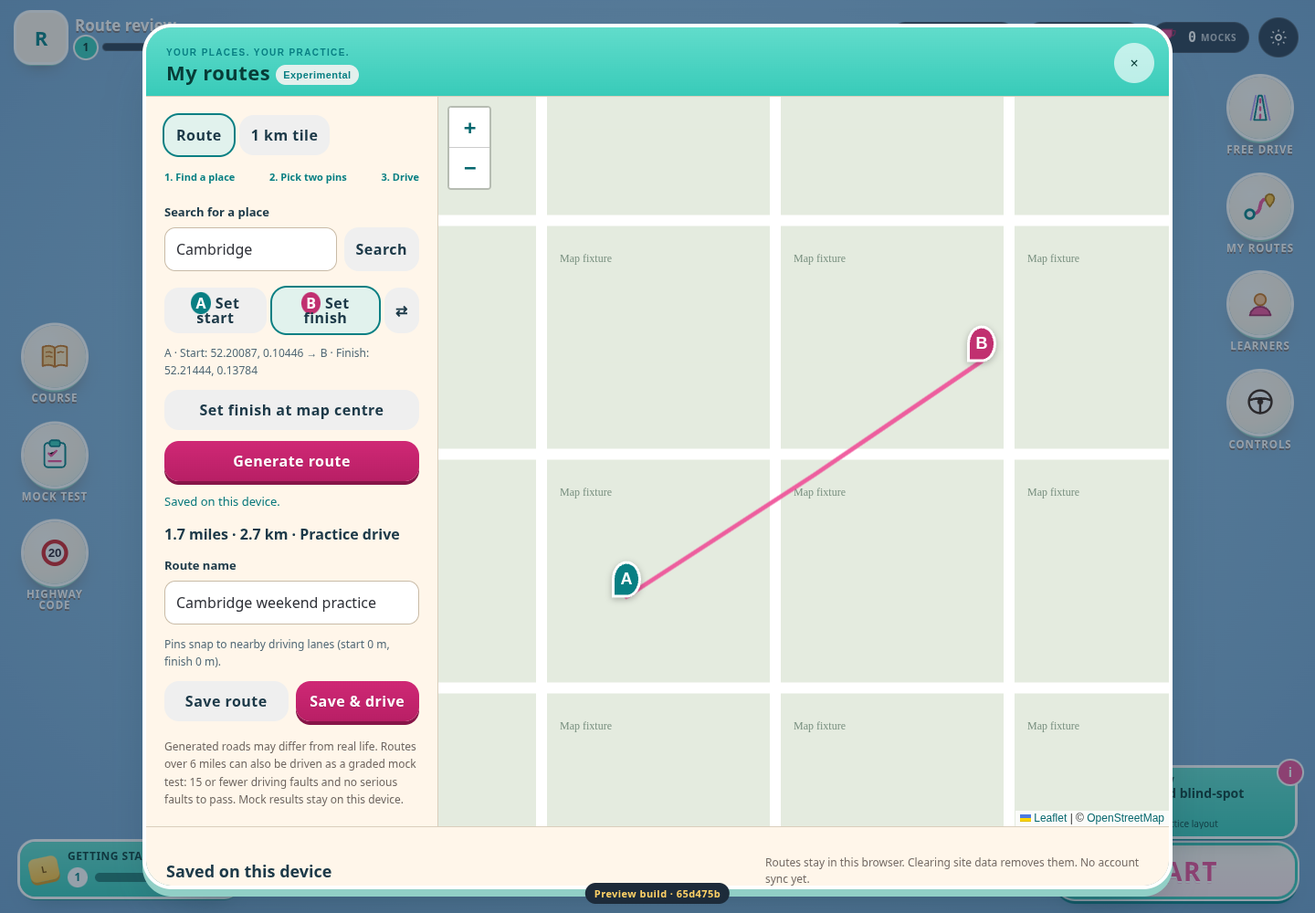
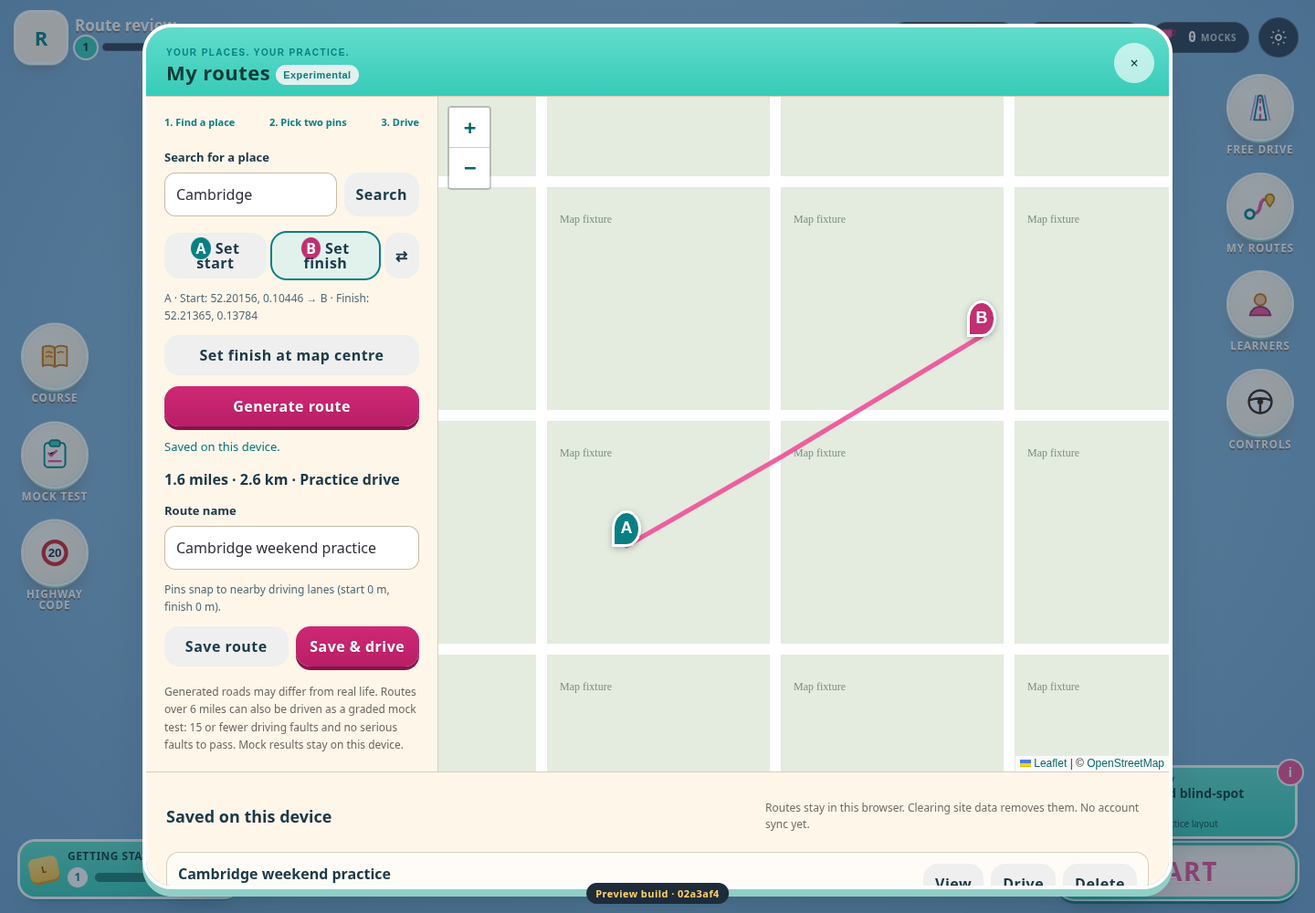
Keep refined rendering in My routes and remove standalone tile tool

diff --git a/js/personal/ui.js b/js/personal/ui.js
@@ -1,4 +1,3 @@
-import {createTileControls} from '../tile-builder/controls.js';
 import * as L from '../vendor/leaflet.js';
 import {request,findRoute,createJourney} from './client.js';
 import {decode,metres,eligibleForMock} from './geometry.js';
@@ -9,7 +8,6 @@ export function createRoutesUI({onDrive,onClose,canDrive,requestLogin}) {
   sheet.innerHTML=`<div class="card" role="dialog" aria-modal="true" aria-labelledby="personalRoutesHeading">
     <header><div><span class="route-eyebrow">YOUR PLACES. YOUR PRACTICE.</span><h2 id="personalRoutesHeading">My routes <small>Experimental</small></h2></div><button class="x" type="button" aria-label="Close my routes">×</button></header>
     <div class="personal-layout"><div class="personal-tools">
-      <div class="route-pin-controls route-mode"><button class="cbtn" id="routeMode" aria-pressed="true">Route</button><button class="cbtn" id="tileMode" aria-pressed="false">1 km tile</button></div>
       <ol class="route-steps"><li>Find a place</li><li>Pick two pins</li><li>Drive</li></ol>
       <form id="placeSearch"><label for="routePlace">Search for a place</label><div class="route-search"><input id="routePlace" type="search" placeholder="Cambridge, UK" maxlength="200" autocomplete="off" required><button class="cbtn" type="submit">Search</button></div></form>
       <div id="placeResults" aria-label="Place search results"></div>
@@ -40,13 +38,7 @@ export function createRoutesUI({onDrive,onClose,canDrive,requestLogin}) {
     $('pinSummary').textContent=pins.map((p,i)=>(i?'B · Finish: ':'A · Start: ')+(p?`${p[1].toFixed(5)}, ${p[0].toFixed(5)}`:'click the map')).join(' → ');
   }
   function setPin(i,p){invalidate();pins[i]=p;refreshPins();if(i===0&&!pins[1])select(1);}
-  map.on('click',e=>{if(!tileControls.active)setPin(choice,[e.latlng.lng,e.latlng.lat]);});
-  const tileControls=createTileControls({sheet,map,L,say,onMode:enabled=>{
-    invalidate();pins=[null,null];refreshPins();
-    for(const el of [sheet.querySelector('.route-steps'),sheet.querySelector('.route-pin-controls:not(.route-mode)'),$('pinSummary'),$('pinAtCentre'),$('generatePersonalRoute'),sheet.querySelector('.personal-tools>.route-note'),sheet.querySelector('.personal-library')])el.hidden=enabled;
-    $('routeMode').setAttribute('aria-pressed',String(!enabled));$('tileMode').setAttribute('aria-pressed',String(enabled));
-  }});
-  $('routeMode').onclick=()=>tileControls.enable(false);$('tileMode').onclick=()=>tileControls.enable(true);
+  map.on('click',e=>setPin(choice,[e.latlng.lng,e.latlng.lat]));
   $('chooseStart').onclick=()=>select(0);$('chooseEnd').onclick=()=>select(1);
   $('pinAtCentre').onclick=()=>{const p=map.getCenter();setPin(choice,[p.lng,p.lat]);};
   $('swapPins').onclick=()=>{invalidate();pins.reverse();refreshPins();};
@@ -56,16 +48,16 @@ export function createRoutesUI({onDrive,onClose,canDrive,requestLogin}) {
     const snaps=[recipe.snappedStart,recipe.snappedEnd];$('routeSnap').textContent=snaps.every(Boolean)?`Pins snap to nearby driving lanes (start ${Math.round(metres(recipe.start,snaps[0]))} m, finish ${Math.round(metres(recipe.end,snaps[1]))} m).`:'Pins follow nearby driving lanes.';
   }
   $('placeSearch').onsubmit=async e=>{
-    e.preventDefault();const q=$('routePlace').value.trim();if(!q)return;cancel();tileControls.cancel();const token=sequence;controller=new AbortController();setBusy(true);say('Searching places…');$('placeResults').replaceChildren();
+    e.preventDefault();const q=$('routePlace').value.trim();if(!q)return;cancel();const token=sequence;controller=new AbortController();setBusy(true);say('Searching places…');$('placeResults').replaceChildren();
     try{const results=await request('search?q='+encodeURIComponent(q),{signal:controller.signal,onStatus:say});if(token!==sequence)return;
       if(!Array.isArray(results))throw Error('Place search returned an invalid response.');
-      for(const result of results.slice(0,8)){const lat=Number(result.lat),lon=Number(result.lon);if(!Number.isFinite(lat)||!Number.isFinite(lon))continue;const button=document.createElement('button');button.className='place-result';button.type='button';button.textContent=result.display_name;button.onclick=()=>{invalidate();pins=[null,null];refreshPins();place=String(result.name||result.display_name||q).split(',')[0];const b=result.boundingbox?.map(Number);if(b?.length===4&&b.every(Number.isFinite))map.fitBounds([[b[0],b[2]],[b[1],b[3]]],{maxZoom:15});else map.setView([lat,lon],14);$('placeResults').replaceChildren();if(tileControls.active){tileControls.select([lon,lat]);tileControls.fit();}else{say('Place start A, then finish B on the map.');select(0);}};$('placeResults').append(button);}
+      for(const result of results.slice(0,8)){const lat=Number(result.lat),lon=Number(result.lon);if(!Number.isFinite(lat)||!Number.isFinite(lon))continue;const button=document.createElement('button');button.className='place-result';button.type='button';button.textContent=result.display_name;button.onclick=()=>{invalidate();pins=[null,null];refreshPins();place=String(result.name||result.display_name||q).split(',')[0];const b=result.boundingbox?.map(Number);if(b?.length===4&&b.every(Number.isFinite))map.fitBounds([[b[0],b[2]],[b[1],b[3]]],{maxZoom:15});else map.setView([lat,lon],14);$('placeResults').replaceChildren();say('Place start A, then finish B on the map.');select(0);};$('placeResults').append(button);}
       say($('placeResults').children.length?'Choose a place below.':'No matching places. Try a town, road or postcode.');
     }catch(e){if(e.name!=='AbortError'&&token===sequence)say(e.message);}finally{if(token===sequence)setBusy(false);}
   };
   $('generatePersonalRoute').onclick=async()=>{
     invalidate();const token=sequence;controller=new AbortController();setBusy(true);say('Finding a driving route…');
-    try{const recipe=await findRoute(...pins,{signal:controller.signal,onStatus:say});if(token!==sequence)return;recipe.title=(place+' · A to B').slice(0,120);drawRecipe(recipe);say('Route ready. Save & drive builds it with the refined map generator.');}
+    try{const recipe=await findRoute(...pins,{signal:controller.signal,onStatus:say});if(token!==sequence)return;recipe.title=(place+' · A to B').slice(0,120);drawRecipe(recipe);say('Route ready. Save it here or drive it now.');}
     catch(e){if(e.name!=='AbortError'&&token===sequence)say(e.message);}finally{if(token===sequence)setBusy(false);}
   };
   function save(){if(!draft)throw Error('Generate a route first.');const title=$('personalRouteName').value.trim();if(!title)throw Error('Give your route a name.');draft={...draft,title};store.save(draft);renderSaved();return draft;}
@@ -89,12 +81,12 @@ export function createRoutesUI({onDrive,onClose,canDrive,requestLogin}) {
       const del=button('Delete',()=>{if(!confirm(`Delete “${recipe.title}” from this browser?`))return;try{cancel();store.remove(recipe.id);if(draft?.id===recipe.id)invalidate();renderSaved();say('Route deleted from this device.');}catch(e){say(e.message);}});del.setAttribute('aria-label','Delete '+recipe.title);list.append(card);
     }
   }
-  function close(){cancel();tileControls.cancel();sheet.hidden=true;onClose?.();}
+  function close(){cancel();sheet.hidden=true;onClose?.();}
   sheet.querySelector('.x').onclick=close;sheet.addEventListener('click',e=>{if(e.target===sheet)close();});
   sheet.addEventListener('keydown',e=>{if(e.key==='Escape'){e.stopPropagation();close();}if(e.key==='Tab'){const items=[...sheet.querySelectorAll('button,input,a[href],[tabindex="0"]')].filter(e=>!e.disabled&&e.getClientRects().length),first=items[0],last=items.at(-1);if(e.shiftKey&&document.activeElement===first){e.preventDefault();last.focus();}else if(!e.shiftKey&&document.activeElement===last){e.preventDefault();first.focus();}}});
   window.addEventListener('storage',e=>{if(e.key?.startsWith('slaydrive.personal-routes'))renderSaved();});
   window.addEventListener('learner-access-change',()=>{if(!canDrive()&&busy){cancel();say('Sign in again to drive your saved route.');}});
-  const fit=()=>{map.invalidateSize({pan:false});if(tileControls.active){tileControls.fit();return;}if(line)map.fitBounds(line.getBounds(),{padding:[32,32],maxZoom:16});};
+  const fit=()=>{map.invalidateSize({pan:false});if(line)map.fitBounds(line.getBounds(),{padding:[32,32],maxZoom:16});};
   new ResizeObserver(()=>{if(!sheet.hidden)fit();}).observe($('personalRouteMap'));
-  return {open({tile=false}={}){sheet.hidden=false;renderSaved();tileControls.enable(tile);say(draft?'Saved route ready.':'Search for a place, then choose start and finish.');if(tile)say('Cambridge is selected. Search above or move the 1 km square, then generate it.');setTimeout(()=>{fit();$('routePlace').focus();},0);},close,map};
+  return {open(){sheet.hidden=false;renderSaved();say(draft?'Saved route ready.':'Search for a place, then choose start and finish.');setTimeout(()=>{fit();$('routePlace').focus();},0);},close,map};
 }

diff --git a/server/map/handler.js b/server/map/handler.js
@@ -1,14 +1,12 @@
-import {tileDetailQuery} from './tile-details.js';
 import {coordinate,boundsCheck} from '../../js/personal/geometry.js';
 const SOURCE='https://slaydrive-world-sources.manchala0024.workers.dev';
 const DEMO='https://routing.openstreetmap.de/routed-car/route/v1/driving';
 const json=(data,status=200,headers={})=>Response.json(data,{status,headers:{'X-Content-Type-Options':'nosniff','Cache-Control':'no-store',...headers}});
 // Public geographic data only. No tracks, accounts, payment or admin writes.
-// Search/base OSM use the existing globally throttled and cached SourceBroker.
-// Supplementary tile markings use a fixed, bounded query with local cache/rate limits.
+// Search/Overpass use the existing globally throttled and cached SourceBroker.
 export async function handleMapRequest(request,env={},deps={}) {
   const url=new URL(request.url),path=url.pathname.replace(/^.*\/map-api\//,''),fetcher=deps.fetch||fetch,cache=deps.cache||globalThis.caches?.default;
-  if(!['search','route','osm','tile-details'].includes(path))return json({message:'Unknown map request.'},404);
+  if(!['search','route','osm'].includes(path))return json({message:'Unknown map request.'},404);
   if(request.method!==(path==='search'?'GET':'POST'))return json({message:'Method not allowed.'},405);
   if(request.headers.get('Origin')&&request.headers.get('Origin')!==url.origin)return json({message:'Open route creation in the simulator.'},403);
   let upstream,options={headers:{'User-Agent':'SlayDrivePersonalRoutes/1.0 (https://github.com/ravitejamanchala/cambridge-learner-driv)','Accept':'application/json'},signal:AbortSignal.timeout(35000)},body;
@@ -17,8 +15,6 @@ export async function handleMapRequest(request,env={},deps={}) {
     if(path==='search'){
       const q=url.searchParams.get('q')?.trim();if(!q||q.length>200)throw Error('Enter a place name (up to 200 characters).');
       upstream=SOURCE+'/sources/search?q='+encodeURIComponent(q);
-    }else if(path==='tile-details'){
-      const query=tileDetailQuery(body?.bounds);upstream='https://overpass-api.de/api/interpreter?data='+encodeURIComponent(query);
     }else if(path==='osm'){
       boundsCheck(body?.bounds);upstream=SOURCE+'/sources/osm';options={...options,method:'POST',headers:{...options.headers,'Content-Type':'application/json'},body:JSON.stringify({bounds:body.bounds})};
     }else{
@@ -31,29 +27,21 @@ export async function handleMapRequest(request,env={},deps={}) {
       upstream=router.replace(/\/$/,'')+'/'+[body.start,body.end].map(p=>p.join(',')).join(';')+'?overview=full&geometries=geojson&steps=false&alternatives=false';
     }
   }catch(e){return json({message:e.message||'Invalid map request.'},400);}
-  // Cache routing and supplementary detail results; the broker owns base OSM caching.
-  const key=['route','tile-details'].includes(path)?new Request(upstream):null;
+  // Cache routing results; the existing source broker owns search/OSM caching.
+  const key=path==='route'?new Request(upstream):null;
   if(key){const hit=await cache?.match(key);if(hit)return hit;
     const client=request.headers.get('CF-Connecting-IP');
-    if(client&&cache){const rateKey=new Request(url.origin+'/map-api/rate/'+path+'/'+encodeURIComponent(client)),recent=await cache.match(rateKey);if(recent)return json({message:'Please wait a moment before generating another route.'},429,{'Retry-After':'5'});await cache.put(rateKey,new Response('1',{headers:{'Cache-Control':'max-age=5'}}));}
+    if(client&&cache){const rateKey=new Request(url.origin+'/map-api/rate/'+encodeURIComponent(client)),recent=await cache.match(rateKey);if(recent)return json({message:'Please wait a moment before generating another route.'},429,{'Retry-After':'5'});await cache.put(rateKey,new Response('1',{headers:{'Cache-Control':'max-age=5'}}));}
   }
   try{
-    let target=upstream;
-    if(path==='tile-details'){const provider=new URL(upstream),query=provider.searchParams.get('data');provider.search='';target=provider.href;options={...options,method:'POST',headers:{...options.headers,'Content-Type':'application/x-www-form-urlencoded'},body:new URLSearchParams({data:query}).toString()};}
-    let response;
-    if(path==='tile-details'){
-      // Independent public mirror for outages only. A rate limit or other 4xx
-      // response is returned to the caller, never evaded by switching servers.
-      const providers=[target,'https://overpass.private.coffee/api/interpreter'];
-      for(let i=0;i<providers.length;i++){try{response=await fetcher(providers[i],{...options,signal:AbortSignal.timeout(15000)});if(response.status<500||i===providers.length-1)break;await response.body?.cancel();}catch(e){if(i===providers.length-1)throw e;}}
-    }else response=await fetcher(target,options);
-    if(!response.ok)return json({providerStatus:response.status,message:response.status===429?'The map provider is busy. Please wait and retry.':response.status===400&&path==='route'?'The routing provider cannot connect these pins. Choose points on connected public roads.':'The map provider is unavailable. Please retry shortly.'},response.status===429?429:502,{'Retry-After':response.headers.get('Retry-After')||'6'});
+    const response=await fetcher(upstream,options);
+    if(!response.ok)return json({message:response.status===429?'The map provider is busy. Please wait and retry.':response.status===400&&path==='route'?'The routing provider cannot connect these pins. Choose points on connected public roads.':'The map provider is unavailable. Please retry shortly.'},response.status===429?429:502,{'Retry-After':response.headers.get('Retry-After')||'6'});
     // Bound response size without buffering an unbounded provider response.
     const reader=response.body.getReader(),chunks=[];let size=0;
     try{while(true){const {done,value}=await reader.read();if(done)break;size+=value.length;if(size>12*1024*1024){await reader.cancel();return json({message:'The map provider response was too large. Try a less detailed route or retry later.'},422);}chunks.push(value);}}finally{reader.releaseLock();}
     const data=JSON.parse(await new Blob(chunks).text());
     if(path==='route'&&(data.code!=='Ok'||!data.routes?.length))return json({message:'No driving route connects those pins. Try nearby public roads.'},422);
-    if(['osm','tile-details'].includes(path)&&(!Array.isArray(data.elements)||data.remark))return json({message:'The map provider returned an incomplete area. Retry this section.'},502);
-    const out=json(data,200,key?{'Cache-Control':'public, max-age=3600'}:{});if(key)await cache?.put(key,out.clone());return out;
+    if(path==='osm'&&(!Array.isArray(data.elements)||data.remark))return json({message:'The map provider returned an incomplete area. Retry this section.'},502);
+    const out=json(data,200,path==='route'?{'Cache-Control':'public, max-age=3600'}:{});if(key)await cache?.put(key,out.clone());return out;
   }catch{return json({message:'The map service did not respond in time. Please retry.'},502);}
 }

diff --git a/js/main.js b/js/main.js
@@ -275,9 +275,9 @@ async function boot() {
   mountLocalLibrary({selectedRoute:()=>hub.plan().kind==='mock'?hub.plan().key.slice(6):null,onSelect:(id)=>{const pl=hub.select('mock',id);hub.render();return pickPlan(pl,false);}});
   let personalUI=null,personal=null;
   function stopPersonal(){personal?.journey.cancel();personal=null;for(const key of localTracks.keys())if(key.startsWith('personal:'))localTracks.delete(key);index.areas=index.areas.filter(a=>!a.id.startsWith('personal:')); $('personalJourneyProgress').hidden=true;document.body.classList.remove('personal-drive');}
-  async function openPersonal(tile=false){
+  async function openPersonal(){
     hub.closeSheets();
-    try{if(!personalUI){const {createRoutesUI}=await import('./personal/ui.js');personalUI=createRoutesUI({onDrive:startPersonal,canDrive:graded=>canAccessPlan({kind:'personal',graded}),requestLogin:()=>{personalUI.close();hub.requestAccess();},onClose:()=>$('myRoutesBtn').focus()});}personalUI.open({tile:tile===true});}
+    try{if(!personalUI){const {createRoutesUI}=await import('./personal/ui.js');personalUI=createRoutesUI({onDrive:startPersonal,canDrive:graded=>canAccessPlan({kind:'personal',graded}),requestLogin:()=>{personalUI.close();hub.requestAccess();},onClose:()=>$('myRoutesBtn').focus()});}personalUI.open();}
     catch(e){$('personalOpenStatus').textContent='Route creator could not load. Check your connection and retry.';}
   }
   $('myRoutesBtn').onclick=openPersonal;
@@ -865,7 +865,6 @@ async function boot() {
   });
   await areaChain; await new Promise(r => setTimeout(r, 0));
   $('loadOv').hidden = true;
-  if(new URLSearchParams(location.search).has('tile'))await openPersonal(true);
 }
 
 boot().catch(err => { console.error(err); setLoad(err.message || 'Something went wrong while loading.'); const b = $('loadErr'); if (b) b.hidden = false; });

diff --git a/js/personal/routes.css b/js/personal/routes.css
@@ -17,5 +17,4 @@
 .personal-routes .card{display:block}.personal-routes .route-note{margin-bottom:0}.personal-routes .personal-library{position:relative}
 .personal-drive #pauseSheet .detail>h3,.personal-drive #flist{display:none}.personal-drive #resultSheet .score{display:none}
 #personalOpenStatus:empty{display:none}
-/* Geometry preview uses the existing My routes layout, fonts and buttons. */
-#tileViewport{position:absolute;inset:0;background:var(--cream)}#tileViewport canvas{display:block;width:100%;height:100%}#tileControls [aria-pressed=true]{outline:2px solid #087f83;background:#e1f2ed}#tileControls .route-actions{flex-wrap:wrap}.personal-routes [hidden]{display:none!important}.route-mode{margin:0 0 16px}
+.personal-routes [hidden]{display:none!important}

diff --git a/docs/one-km-tile.md b/docs/one-km-tile.md
@@ -1,17 +1,29 @@
-# One kilometre tile prototype
+# Refined map renderer
 
-This is a fresh branch from `main` (`e444919`), not a continuation of the deleted world-inspector branch. Open **`/?tile`** on its PR preview, or **My routes → 1 km tile**. This uses the existing simulator panel, fonts, colours, search and map; there is no restyled page.
+The separate 1 km tile tool has been removed. Its geometry and markings now power the existing **My routes** flow; there is no second editor, mode selector or tile-preview shortcut.
 
-1. Search for a town, street or postcode and select a result. Cambridge is selected initially.
-2. The pink square shows exactly **1,000 × 1,000 metres in the simulator's local projection**. Click the street map or drag its centre pin to reposition it.
-3. Choose **Generate 3D tile**. The app downloads a bounded 1,200 × 1,200 metre area, processes it in a worker and displays only the central 1 km tile.
-4. Drag to orbit, right-drag to pan, scroll/pinch to zoom. **Reset view** frames the whole tile. Return to **Map** to choose another area.
+1. Open **My routes** and search for a place.
+2. Place start A and finish B, then choose **Generate route**.
+3. Choose **Save & drive**, or use **Drive** on an existing saved route.
 
-The prototype shows joined roads, flat pavements, mapped water/green spaces and simple extruded building footprints. Mapped trees, fences, walls, hedges, gates, bollards, lamps, benches, bins, post boxes, cycle parking and bus-stop assets reuse the simulator’s procedural geometry. A separate names/direction guide can be switched off. It uses the existing simulator OSM converter and coordinate conventions. The tile renderer now buffers whole road polylines into continuous rounded outlines, unions them with fitted junction corners, and subtracts the carriageway from pavement and walking/cycling surfaces. This avoids folded ribbon triangles and rectangular pavement pieces in the road. This change is confined to the tile renderer. The preview retains source building geometry rather than applying driving-clearance edits. Existing simulator import behavior is unchanged.
+The simulator retains its UI, building assets, car physics, live traffic and local route storage. Built-in course and mock worlds retain their rendering. Personal drives share continuous road buffers, pavement subtraction, corrected approaches and source/inferred markings, split into nearby rendering chunks. The full route is prepared before driving, without a 1 km clipping boundary or provider requests while driving.
 
-Buildings and street furniture are each batched into a mesh; roads and land are grouped by material. The viewer renders when the camera or viewport changes, rather than continuously when idle. Changing the selected square cancels in-flight work and invalidates the old result. Generation runs outside the UI thread. Partial provider responses, empty road coverage and excessive data return visible errors instead of showing a default map.
+Saved entries are local recipes with a bounded source cache; evicted source data may need to be fetched again before driving. Untagged widths, heights and markings are estimates. Exact yellow boxes, road text and parking bays appear only where the base source provides them. The prototype-only supplementary marking endpoint and its failed live import check were removed along with the tool. Existing live search/routing/base-map checks remain enabled.
 
-The 1 km inspector remains a static preview: it excludes routing, driving, audits, satellite interpretation, publication, persistence and detailed house assets. Personal driving uses the integration described below. Widths and untagged heights remain estimates; terrain has no elevation and bridges are not vertically separated. This is a geometry prototype, not a complete or survey-accurate digital twin. Large/high-density responses are bounded by the existing broker and a 60,000-element client limit.
+The shared geometry modules and internal synthetic renderer harness remain for regression testing. They are not exposed as an app tool or bundled as a separate tile worker. Earlier tile screenshots under `docs/evidence/one-km-tile/` document development comparisons; current route evidence is under `docs/evidence/my-routes-refined/`.
+
+## Run and verify
+
+```sh
+npm ci
+npm test
+node tools/build_demo.mjs . dist-preview --preview
+npm run dev:routes -- dist-preview 8000
+TEST_SITE=dist-preview node tests/personal-routes-browser.mjs
+node tests/tile-markings-browser.mjs
+```
+
+Open `http://127.0.0.1:8000/` and choose My routes. Browser interaction tests use deterministic providers and real simulator physics; hosted provider checks run separately in CI.
 
 ## CityGen3D manual review
 
@@ -27,51 +39,3 @@ Reviewed the uploaded **CityGen3D v1.20** manual. Page numbers below refer to it
 - **Builds (p. 47–48):** the manual describes standalone Unity builds and excluding editor-only components. It does not establish that its editor generation workflow can run inside our existing WebGL app.
 
 **Assessment:** adopt the small-tile workflow now. Evaluate the actual licensed Unity package separately only if an engine migration becomes the goal. A manual alone cannot establish its speed, accuracy or suitability for our mobile browsers.
-
-## Run and verify
-
-```
-npm ci
-node tools/build_demo.mjs . dist-tile --preview
-npm run dev:routes -- dist-tile 8000
-```
-
-Open `http://127.0.0.1:8000/?tile`. The existing source broker handles search and base OSM requests; no new key is required. The same Pages Worker makes a supplementary fixed Overpass query for standalone road markings and parking spaces, limited to a 1,250 m bounding extent, with a one-hour cache, client throttling, timeouts and response-size limits. Network/5xx outages can use the public Private.coffee Overpass mirror; rate limits and other 4xx responses are returned without switching providers. It accepts bounds, never arbitrary query text. If the detail provider fails, the base tile remains usable and the missing details are reported. OSM map tiles are displayed directly with attribution. No satellite imagery is fetched or analysed.
-
-```
-npm test
-TEST_SITE=dist-tile node tests/tile-builder-browser.mjs
-```
-
-The browser test uses fixture map tiles and provider responses. It verifies visible selection, search, pin dragging, buffered bounds, 3D rendering, orbit/reset, invalidation, cancellation, provider errors/retry and mobile overflow. `LIVE_TILE=1` adds a separate live street-map/search/generation check on the deployed preview. These are distinct from verifying geographic accuracy.
-
-A captured Cambridge source response for the reported square (**52.20479, 0.13407**) produces 1,595 buildings and 10 continuous road polygons with the current renderer. All building heights in that square are estimated. The response reports 2026-08-10; it is not a fresh survey. Current local browser evidence is in `docs/evidence/one-km-tile/`; deterministic tests use a fixture basemap and captured source transport. Live-provider evidence is kept separately in GitHub Actions artifacts.
-
-## Street detail coverage
-
-- Directional lane arrows read explicit `turn:lanes` tags; BUS LANE reads designated/only bus or PSV lanes. Inconsistent directional counts and unsupported turn values are reported instead of silently choosing a lane. `oneway=-1` is handled after native geometry reversal. Where marking tags are missing, the existing simulator lane-line and junction-approach logic provides estimated markings. Explicit `lane_markings=no` is respected. Direction arrows prefer source tags; inferred multi-lane junction guidance is identified in the coverage counts. Marking placement and lane widths are approximations, not measurements.
-- Explicit closed `road_marking=box_junction`/`yellow_box` polygons (also `junction=box` and `box_junction=yes`) produce metre-scale yellow hatching clipped to the polygon and its holes. Diagonal edges use geometry rather than a rectangular image. `keep_clear` and `word` markings become road text. Closed `amenity=parking_space` polygons produce individual bay outlines. Missing boundaries are not replaced by guessed boxes.
-- Mapped signals, stop/give-way controls, zebra crossings, signal-controlled crossing studs and tagged tactile paving are shown. Lane lines leave a gap across the crossing. `traffic_signals:direction` is respected before approach positioning, and equivalent signal heads are deduplicated. Junction-coordinated crossings reuse existing vehicle approaches; a pedestrian push button does not imply a separate standalone controller. Pedestrian heads have a distinct small red-person appearance and face the walking path. This is a static layout preview: it does not simulate live signal phases. Supported source upright signs include UK stop, give-way, no-entry and speed signs. Unsupported signs stay in the coverage report. Pole placement/orientation is estimated using the native roadside-clearance code.
-- OSM turn restrictions and their original relation members/tags are retained; their labels and blue one-way guides are reference overlays. This preview has no driving/routing enforcement. Road names are labels, not invented painted inscriptions.
-- Roadside furniture whose base intersects a road is omitted with a count. Barriers/gates/bollards remain because they can intentionally obstruct traffic. Source data is not mutated.
-- The captured Cambridge base response contains no explicit yellow-box or individual parking-space polygons. The separate query can retrieve additional mapped details; it cannot recover features absent from OSM. This does not certify every real street marking.
-
-Pure tests cover reverse one-way lanes, asymmetric counts, malformed lane tags, KEEP CLEAR/BUS LANE, explicit yellow-box and parking polygons, fence/tree/lamp assets, turn restrictions, road-overlap suppression and provider validation/rate-limit errors. Synthetic tests demonstrate supported features without adding fictional markings to the Cambridge dataset. Browser tests also verify the guide toggle and asset coverage controls.
-
-## Screenshot-driven refinement
-
-The reported square is centred on **52.20479, 0.13407**. A captured base OSM response generates 1,595 building footprints (all heights estimated). The renderer now uses continuous buffered road geometry, joined walking paths, native lane-line patterns, corrected junction approaches, and distinct crossing/signal roles. Exact yellow-box locations remain dependent on mapped boundaries; the captured base response contains none. The renderer test uses a clearly labelled synthetic junction to verify hatching, road text and arrow rendering without inventing Cambridge source data.
-
-See `docs/evidence/one-km-tile/junction-before.png` and `junction-after.png` for the same camera and source data. Guidance labels are switched off in both so the road edges can be inspected; the label feature itself is unchanged.
-
-## Try the generator in My routes
-
-On the same PR preview, open **My routes → Route**, search for a place, set **A** and **B**, then choose **Generate route → Save & drive**. Existing saved routes also use the refined generator when driven again; there is no need to delete them. The existing UI and local route storage are retained.
-
-Personal routes now share the tile generator's continuous road buffers, pavement subtraction, source signal-direction filtering, corrected approaches and road-paint geometry. The route worker processes the entire fetched corridor using one origin, then splits rendering into native scenery chunks. It does not clip routes to the inspector's 1 km square. Only nearby marking/surface meshes are created and displayed. All required base map areas are prepared before driving; no map download is triggered at a chunk boundary.
-
-The simulator keeps its existing building style, car physics, collisions, live vehicle-light controller and graded/ungraded modes. Static preview signal heads, restriction labels and blue direction guides are not inserted into the live scene. Built-in courses and mocks keep their existing renderer. Native simulator signal timing is not a reconstruction of surveyed real-world phases.
-
-Saved entries remain compact start/end/geometry recipes in local storage, with a bounded, disposable source cache. Reloading can require refetching evicted source data before driving. This is not a promise of offline map persistence or account sync. Extra yellow boxes, parking bays and road text render when present in the fetched source; personal routes currently use the existing base source broker, without repeatedly calling the unavailable supplementary detail provider along the corridor.
-
-Validation includes a >2 km route with continuous road coverage and markings beyond ±500 m, saved-route reload followed by real native driving, scenery chunk transitions without provider requests, graded mock pass/fail, and a source-mode cockpit regression. Test provider responses are deterministic fixtures, not live map-accuracy certification.

diff --git a/docs/evidence/my-routes-refined/README.md b/docs/evidence/my-routes-refined/README.md
@@ -1,13 +1,15 @@
 # Refined generator in My routes
 
-The unchanged Route panel now builds personal drives with the tile generator's continuous road geometry and marking renderer. Open My routes, search, place A/B, Generate route, then Save & drive. Previously saved routes are regenerated with the refined renderer on Drive.
+The existing My routes panel now builds personal drives with the shared generator's continuous road geometry and marking renderer. The separate 1 km tile tool has been removed. Open My routes, search, place A/B, Generate route, then Save & drive. Previously saved routes are regenerated with the refined renderer on Drive.
 
 Verified locally:
-- 259 unit/regression tests passed; preview and production builds passed.
+- 257 unit/regression tests passed; preview and production builds passed.
 - A >2 km generated route retains road coverage and paint outside the inspector's ±500 m boundary.
 - Browser flow saves a recipe, reloads it, then drives with native physics and simulator building assets. It asserts refined marking chunks exist in the live scene.
 - Crossing the former 600 m section boundary preserves the network, traffic and test objects with map providers deliberately unavailable after preparation.
 - Existing graded/ungraded modes, course lessons, voice mute, quota errors, cancellation, mobile layout and deletion pass.
-- Source-mode cockpit, tile UI and synthetic marking-renderer browser checks pass.
+- Source-mode cockpit and synthetic marking-renderer checks passed during renderer integration; the route browser check also confirms the standalone tool is absent.
 
-`drive.png`, `next-section.png`, `create-desktop.png` and `result.json` come from deterministic provider fixtures with real converter, storage and physics. They are not screenshots of surveyed Cambridge or a mobile performance benchmark. No live-provider success is claimed here. The last hosted tile check still reports the separate supplementary marking service unavailable; My routes uses the existing base source broker.
+`drive.png`, `next-section.png`, `create-desktop.png` and `result.json` come from deterministic provider fixtures with real converter, storage and physics. They are not screenshots of surveyed Cambridge or a mobile performance benchmark. No live-provider success is claimed here. The prototype-only supplementary marking endpoint has been removed. My routes uses the existing base source broker, and its live provider checks remain in CI.
+
+After removing the standalone tool, the current regression suite contains 257 tests (two tests belonged to its removed supplementary endpoint). Source/build and browser verification remain separate from live-provider availability.

diff --git a/docs/evidence/one-km-tile/README.md b/docs/evidence/one-km-tile/README.md
@@ -1,3 +1,7 @@
+# Historical tile-prototype evidence
+
+The standalone tile UI has been removed. These captures record renderer development; use My routes for current testing.
+
 # Local verification
 
 - 258 JavaScript unit/regression tests passed (`npm test`).
@@ -10,4 +14,4 @@
 - `synthetic-markings.png` and `synthetic-result.json`: explicitly synthetic junction demonstrating yellow hatching, crossing types, lane arrows and road text. The pixel check confirms yellow paint is rendered. The captured Cambridge base data contains no explicit yellow-box boundaries; this fixture does not establish their real locations.
 - Signal tests cover source direction, separate vehicle/pedestrian roles, duplicate approach suppression, coordinated junction crossings, standalone crossings and push-button inputs independent of controller type. This is a static preview, not a live signal-phase simulation.
 
-The PR workflow additionally checks the deployed preview with live OSM map tiles, search and generation, including supplementary marking import. Its screenshots/results are uploaded separately in the GitHub Actions `cockpit-preview-evidence` artifact. Provider failure remains a failed live check even when base-map generation succeeds.
+Current CI checks personal-route interactions, the shared synthetic marking renderer and the live route providers. The retired tile UI and supplementary marking endpoint are no longer tested or deployed.
